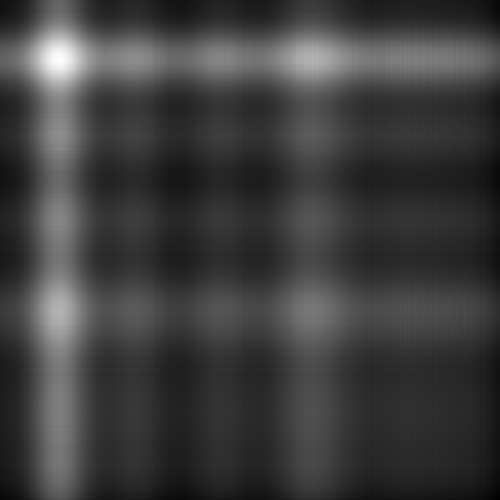
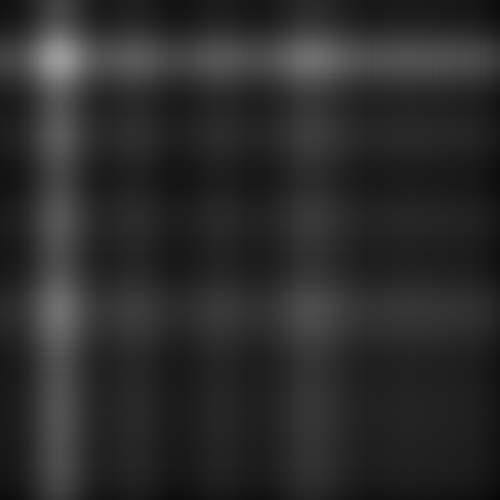
fixed a small problem with Q4

diff --git a/problem4/Q4.py b/problem4/Q4.py
@@ -136,22 +136,22 @@ if __name__ == '__main__':
     ## ====================================
     ## Part 1:
     ## ====================================
-    # file_directory = os.path.abspath(os.path.join(current_path, '..', '..', 'data', 'FinalQ4P1.mat'))
-    # M = scipy.io.loadmat(file_directory)['X']
+    file_directory = os.path.abspath(os.path.join(current_path, '..', '..', 'data', 'FinalQ4P1.mat'))
+    M = scipy.io.loadmat(file_directory)['X']
 
-    # L, S = RPCA(M, 0.01)
+    L, S = RPCA(M, 0.01)
 
-    # L = ((L - L.min()) / (L.max() - L.min())) * 255
-    # file_directory = os.path.abspath(os.path.join(current_path, '..', '..', 'output', 'L.png'))
-    # cv2.imwrite(file_directory, L)
+    L = ((L - M.min()) / (M.max() - M.min())) * 255
+    file_directory = os.path.abspath(os.path.join(current_path, '..', '..', 'output', 'L.png'))
+    cv2.imwrite(file_directory, L)
 
-    # S = ((S - S.min()) / (S.max() - S.min())) * 255
-    # file_directory = os.path.abspath(os.path.join(current_path, '..', '..', 'output', 'S.png'))
-    # cv2.imwrite(file_directory, S)
+    S = ((S - M.min()) / (M.max() - M.min())) * 255
+    file_directory = os.path.abspath(os.path.join(current_path, '..', '..', 'output', 'S.png'))
+    cv2.imwrite(file_directory, S)
 
-    # M = ((M - M.min()) / (M.max() - M.min())) * 255
-    # file_directory = os.path.abspath(os.path.join(current_path, '..', '..', 'output', 'M.png'))
-    # cv2.imwrite(file_directory, M)
+    M = ((M - M.min()) / (M.max() - M.min())) * 255
+    file_directory = os.path.abspath(os.path.join(current_path, '..', '..', 'output', 'M.png'))
+    cv2.imwrite(file_directory, M)
     ## ====================================
 
     ## ====================================
